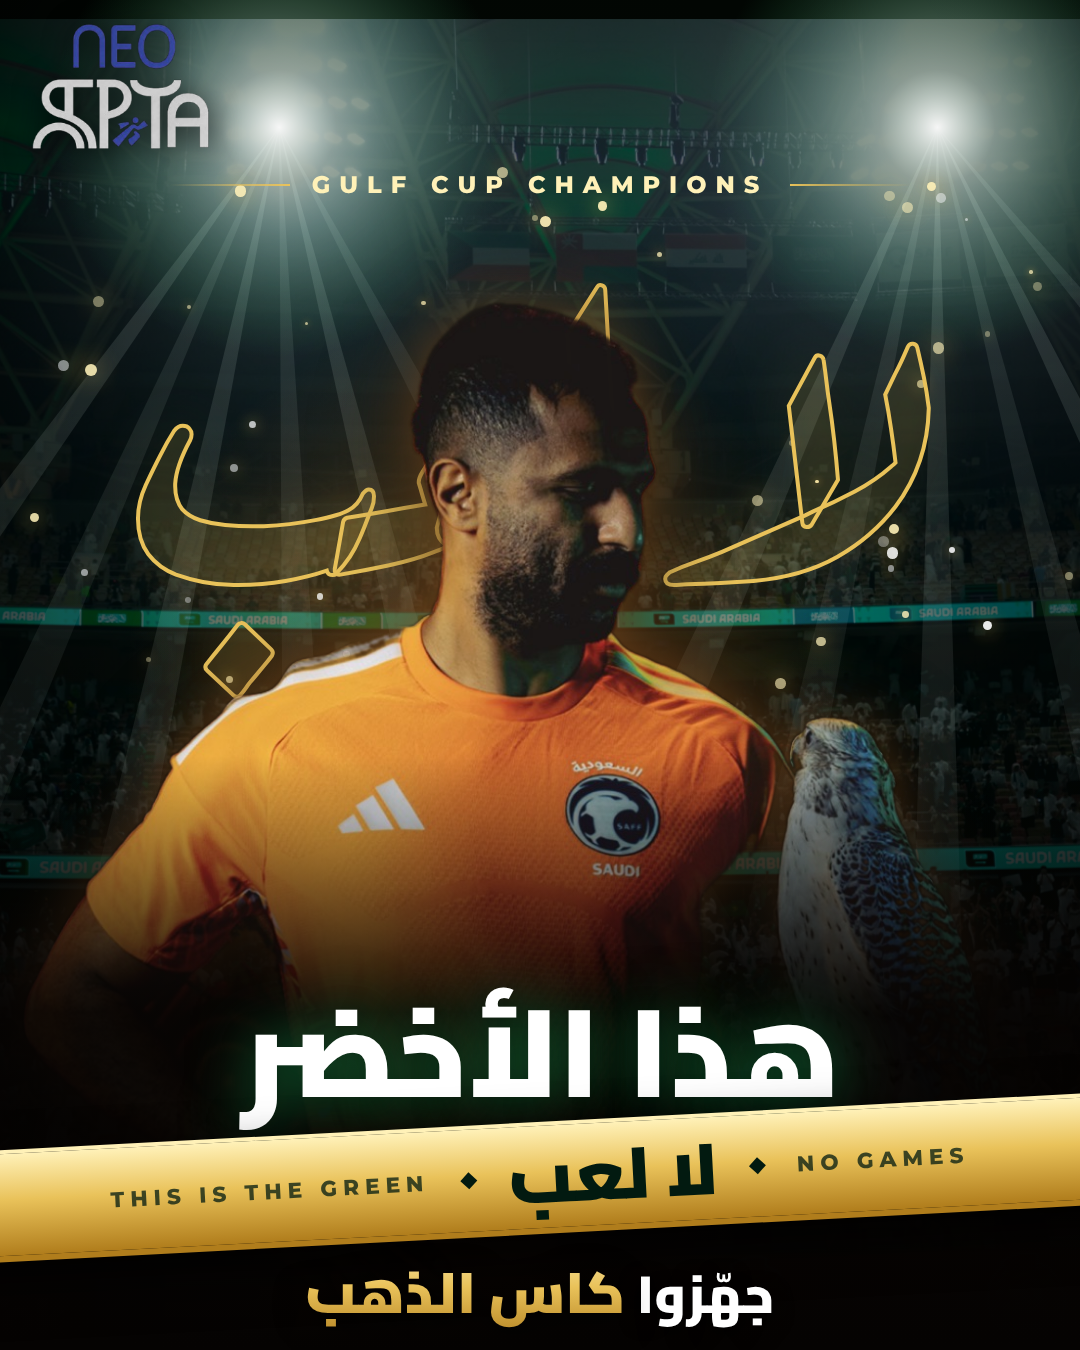
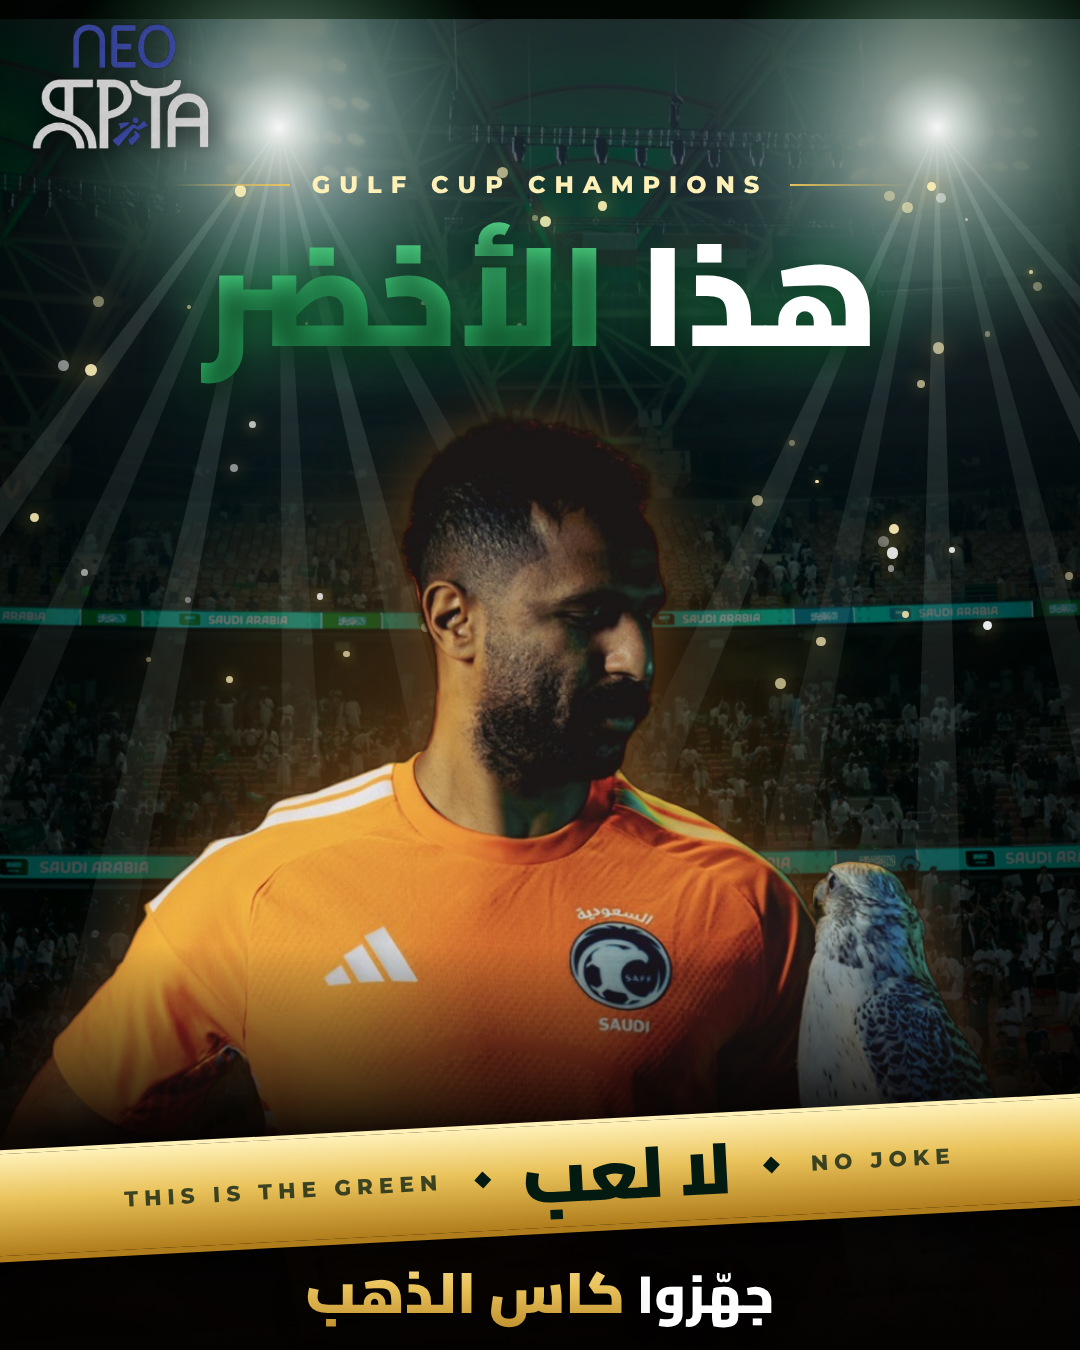
Fix Gulf Cup key art: cleaner Al-Owais cut-out, readable headline, ribbon wording
Claude-Session: https://claude.ai/code/session_01NrPTbrxjbEh7WKXPGhWTuJ

diff --git a/video/src/gulf/Posters3.tsx b/video/src/gulf/Posters3.tsx
@@ -9,7 +9,7 @@ import { gold, goldGradient, green } from "./parts";
 // (public/gulf/*-cut.png) and stand in front of giant type for depth.
 const STADIUM = { src: staticFile("gulf/stadium.jpg"), w: 1638, h: 2048, lights: [[0.29, 0.07], [0.82, 0.07]] };
 const TEAM_CUT = { src: staticFile("gulf/team-cut.png"), w: 1469, h: 725 };
-const OWAIS_CUT = { src: staticFile("gulf/owais-cut.png"), w: 1022, h: 1097 };
+const OWAIS_CUT = { src: staticFile("gulf/owais-cut.png"), w: 1023, h: 1097 };
 
 const Logo: React.FC = () => (
   <Img src={staticFile("neocapta-logo.png")} style={{ position: "absolute", top: 20, left: 32, width: 180, height: 180 * LOGO_RATIO, filter: "drop-shadow(0 4px 14px rgba(0,0,0,0.9))" }} />
@@ -94,7 +94,7 @@ const Ribbon: React.FC<{ top: number; size: number }> = ({ top, size }) => (
     <span style={{ width: size * 0.16, height: size * 0.16, background: green.deep, transform: "rotate(45deg)" }} />
     <span dir="rtl" style={{ fontFamily: fonts.ar, fontWeight: 900, fontSize: size, lineHeight: 1.3, color: green.deep }}>لا لعب</span>
     <span style={{ width: size * 0.16, height: size * 0.16, background: green.deep, transform: "rotate(45deg)" }} />
-    <span style={{ fontFamily: fonts.en, fontWeight: 800, fontSize: size * 0.3, letterSpacing: 6, color: green.deep, opacity: 0.75 }}>NO GAMES</span>
+    <span style={{ fontFamily: fonts.en, fontWeight: 800, fontSize: size * 0.3, letterSpacing: 6, color: green.deep, opacity: 0.75 }}>NO JOKE</span>
   </div>
 );
 
@@ -142,9 +142,9 @@ export const GulfOwaisKeyArt: React.FC = () => {
   useFonts();
   const { height: H } = useVideoConfig();
   const tall = H > 1500;
-  const cw = tall ? 1120 : 1000;
+  const cw = tall ? 1260 : 1080;
   const ch = (cw / OWAIS_CUT.w) * OWAIS_CUT.h;
-  const cutTop = tall ? 560 : 300;
+  const cutTop = tall ? 560 : 410;
   return (
     <AbsoluteFill style={{ backgroundColor: "#050302", overflow: "hidden" }}>
       <Stadium H={H} dim={0.55} zoom={1.15} shiftY={tall ? 160 : 120} />
@@ -152,15 +152,12 @@ export const GulfOwaisKeyArt: React.FC = () => {
       <AbsoluteFill style={{ background: `radial-gradient(circle at 45% ${((cutTop + ch * 0.35) / H) * 100}%, rgba(255,140,40,0.35) 0%, rgba(255,140,40,0) 40%)` }} />
       <Sparkles H={H} seed="ow" y0={0.1} y1={0.55} n={55} />
       <Kicker top={tall ? 250 : 170} />
-      {/* giant outlined "لا لعب" behind him */}
-      <div dir="rtl" style={{ position: "absolute", top: cutTop - (tall ? 150 : 130), left: -60, right: -60, textAlign: "center", fontFamily: fonts.handAr, fontSize: tall ? 440 : 400, lineHeight: 1.1, color: "rgba(233,194,90,0.12)", WebkitTextStroke: `4px ${gold.mid}`, filter: "drop-shadow(0 0 30px rgba(233,194,90,0.35))" }}>
-        لا لعب
+      {/* headline above his head */}
+      <div dir="rtl" style={{ position: "absolute", top: tall ? 330 : 215, left: 0, right: 0, textAlign: "center", fontFamily: fonts.ar, fontWeight: 900, fontSize: tall ? 165 : 140, lineHeight: 1.15, color: "#fff", textShadow: "0 0 60px rgba(31,174,91,0.7), 0 10px 30px rgba(0,0,0,0.9)" }}>
+        هذا <span style={{ backgroundImage: "linear-gradient(180deg, #6ff0a4, #1fae5b)", WebkitBackgroundClip: "text", backgroundClip: "text", color: "transparent" }}>الأخضر</span>
       </div>
       <Img src={OWAIS_CUT.src} style={{ position: "absolute", left: (1080 - cw) / 2 - 20, top: cutTop, width: cw, height: ch, filter: "drop-shadow(0 0 30px rgba(255,150,60,0.35)) drop-shadow(0 20px 40px rgba(0,0,0,0.7))" }} />
-      <AbsoluteFill style={{ background: `linear-gradient(180deg, rgba(5,3,2,0) ${H * (tall ? 0.6 : 0.56)}px, rgba(5,3,2,0.92) ${H * (tall ? 0.76 : 0.75)}px, #050302 100%)` }} />
-      <div dir="rtl" style={{ position: "absolute", left: 0, right: 0, bottom: tall ? 300 : 230, textAlign: "center" }}>
-        <div style={{ fontFamily: fonts.ar, fontWeight: 900, fontSize: tall ? 150 : 124, lineHeight: 1.1, color: "#fff", textShadow: "0 0 60px rgba(31,174,91,0.6), 0 10px 30px rgba(0,0,0,0.9)" }}>هذا الأخضر</div>
-      </div>
+      <AbsoluteFill style={{ background: `linear-gradient(180deg, rgba(5,3,2,0) ${H * (tall ? 0.74 : 0.7)}px, rgba(5,3,2,0.92) ${H * (tall ? 0.86 : 0.84)}px, #050302 100%)` }} />
       <Ribbon top={H - (tall ? 290 : 228)} size={tall ? 84 : 72} />
       <GoldCupLine top={H - (tall ? 160 : 112)} size={tall ? 60 : 52} />
       <Logo />
